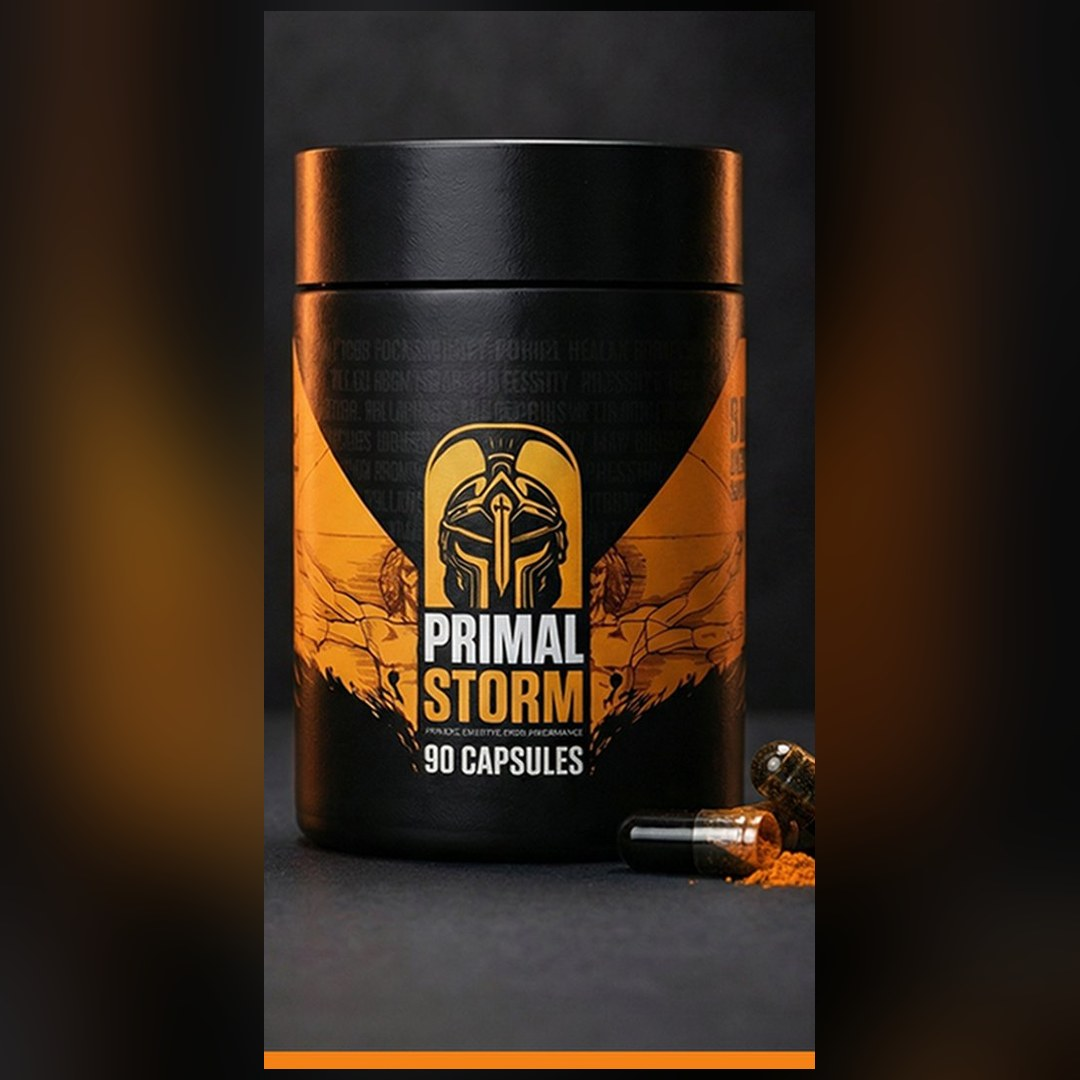
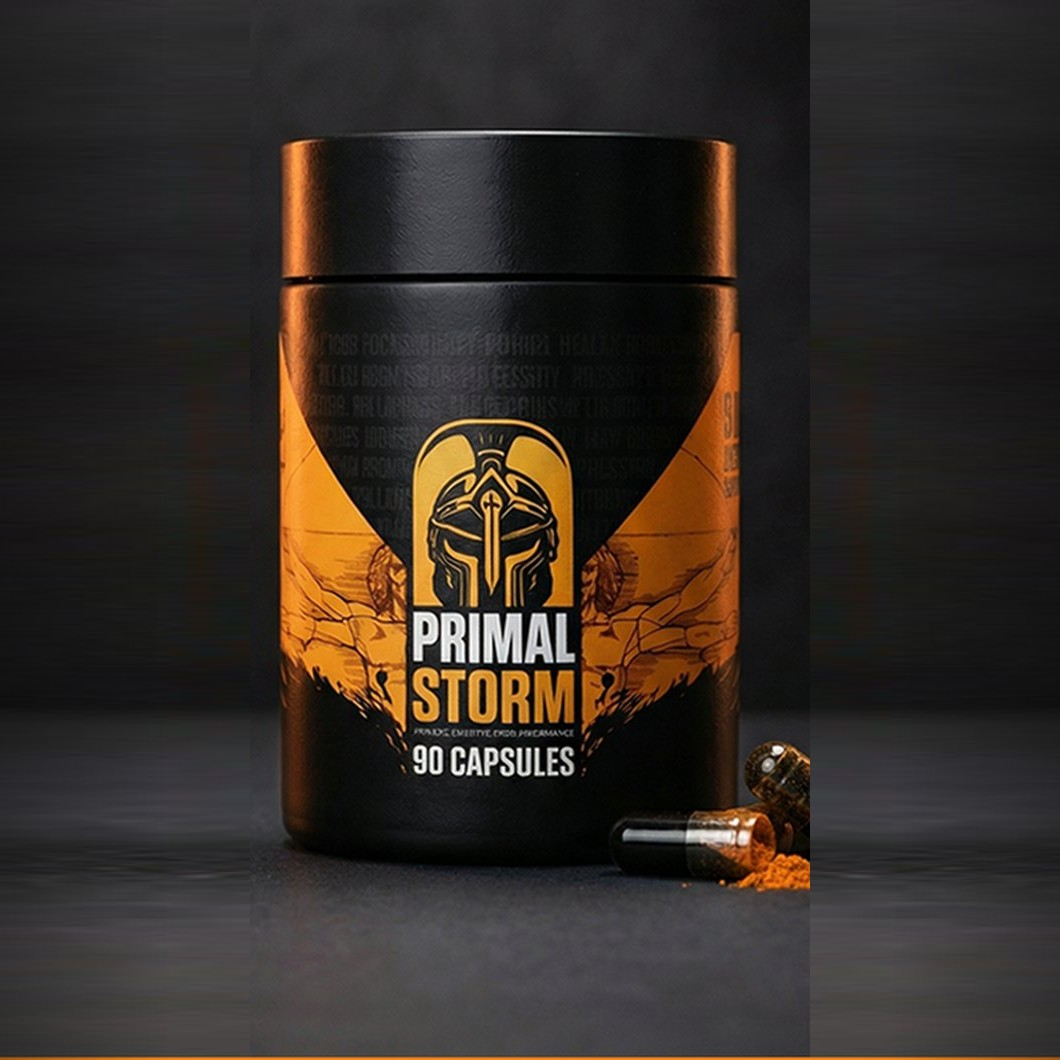
Offer: clean square studio product shot (bottle centered, background extended)

diff --git a/index.html b/index.html
@@ -267,7 +267,7 @@ figcaption{font-family:'Barlow',sans-serif;font-size:12.5px;color:var(--muted);m
   font-weight:700;font-size:clamp(16px,2.4vw,21px);letter-spacing:.05em;padding:10px;text-transform:uppercase}
 .offer-in{display:grid;grid-template-columns:clamp(260px,34vw,384px) 1fr;gap:clamp(22px,4vw,44px);padding:clamp(22px,4vw,36px);align-items:center}
 .offer-in .shot{aspect-ratio:1/1;border-radius:16px;overflow:hidden;background:#141210;padding:0}
-.offer-in .shot img{width:100%;height:100%;object-fit:cover;object-position:center 40%;display:block}
+.offer-in .shot img{width:100%;height:100%;object-fit:cover;object-position:center;display:block}
 .offer-in .content{display:flex;flex-direction:column;justify-content:center}
 .offer .name{font-family:'Barlow Condensed',sans-serif;font-weight:700;color:#fff;font-size:clamp(28px,4vw,38px);line-height:.95}
 .offer .name .o{color:var(--orange)}
@@ -683,7 +683,7 @@ figcaption{font-family:'Barlow',sans-serif;font-size:12.5px;color:var(--muted);m
   <div class="offer-card">
     <div class="offer-flag">&#128293; Buy 2 Get 1 Free &middot; Today Only</div>
     <div class="offer-in">
-      <div class="shot"><img src="assets/bottle.jpg" alt="Primal Storm bottle, 90 capsules"></div>
+      <div class="shot"><img src="assets/offer-square.jpg" alt="Primal Storm bottle, 90 capsules"></div>
       <div class="content">
         <div class="name">PRIMAL <span class="o">STORM</span></div>
         <div class="sub2">Masculinity Pro Complex &middot; 90 Capsules</div>
